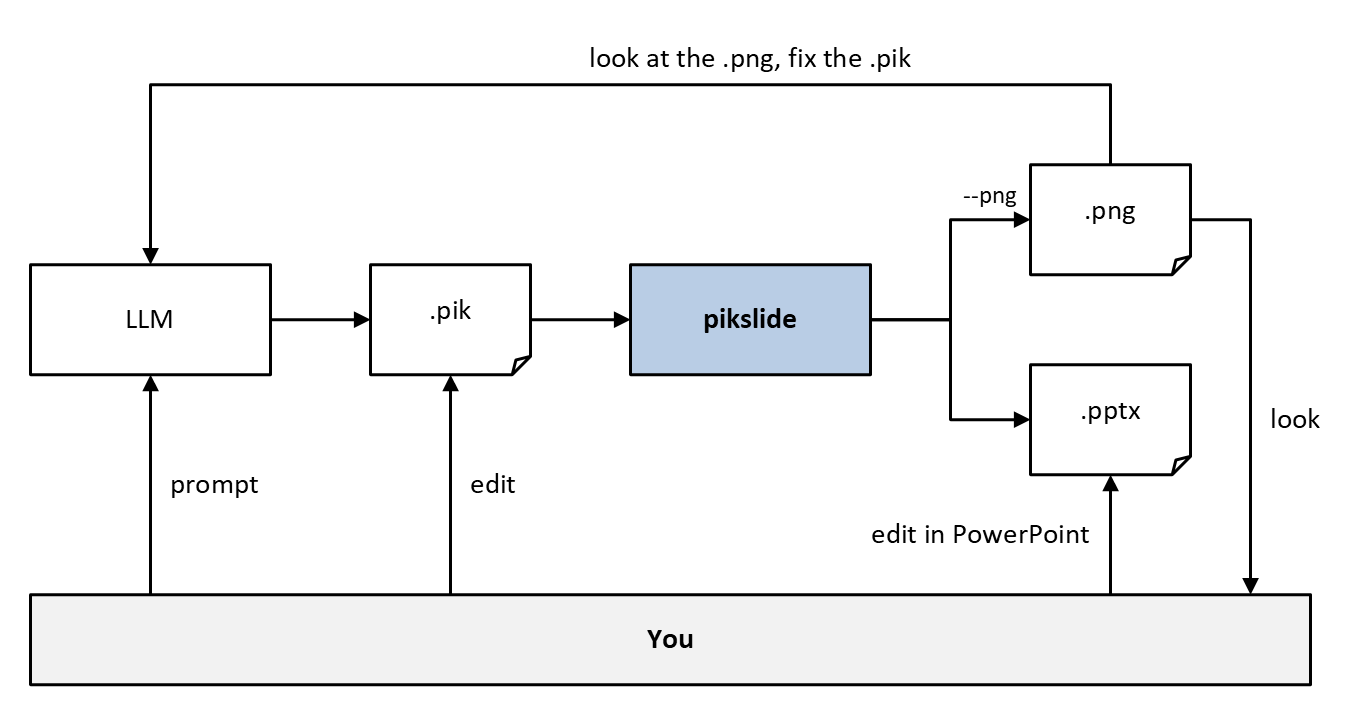
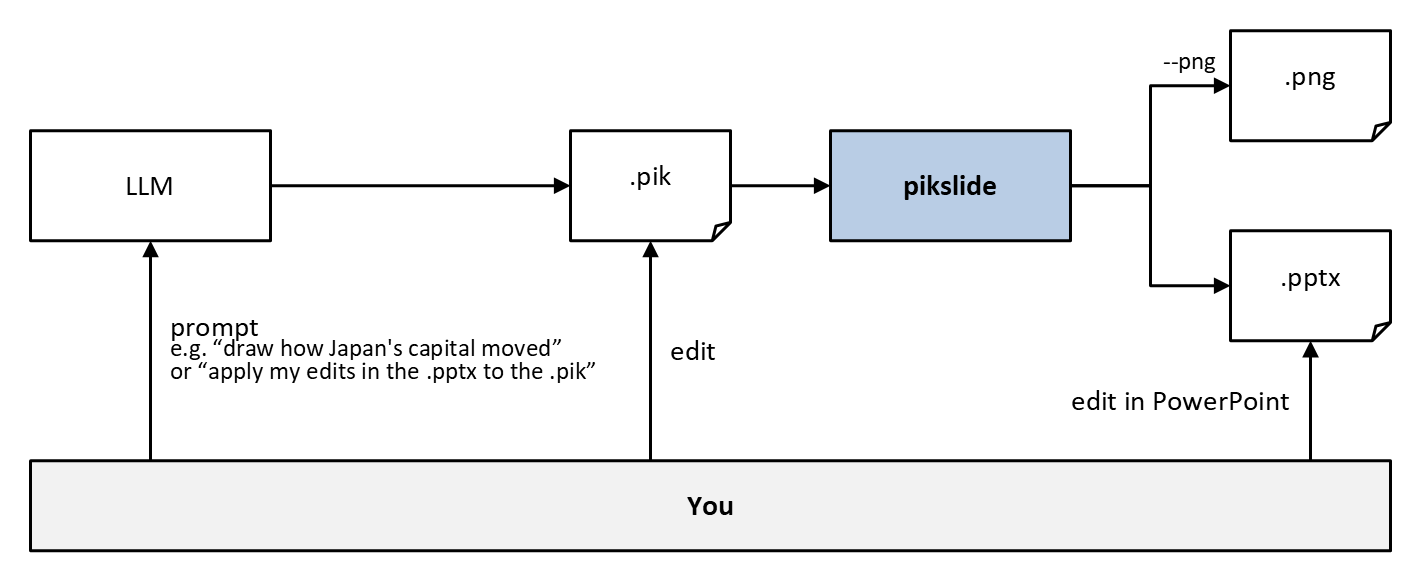
Draw the README's loop through you, not through the LLM's own checks
The picture had the LLM look at the .png and fix its .pik by itself,
and you look at the .png too. That self-check is the harness's, not
pikslide's, and it hid what pikslide adds: a .pptx you can edit.

Now the .png is only an output. The loop runs through you: you prompt
the LLM, edit the .pik, or edit the .pptx in PowerPoint, and the prompt
arrow gives two examples, a first request and "apply my edits in the
.pptx to the .pik". The README's steps say the same, and why the LLM
can carry the edits over: each shape is named after its label in the
.pik.

diff --git a/README.md b/README.md
@@ -10,25 +10,27 @@ theme: a person can select, move and restyle each one afterwards.
 Text an LLM can write, and a slide a person can finish: pikslide is made
 for drawing with an LLM, with you in the loop.
 
-![pipeline.png: You prompt an LLM, which writes a .pik; pikslide renders it to a .pptx and, with --png, a .png. The LLM looks at the .png and fixes the .pik; you look at it too, and can prompt the LLM again, edit the .pik, or edit the .pptx in PowerPoint](https://raw.githubusercontent.com/mkyutani/pikslide/main/docs/examples/pipeline.png)
+![pipeline.png: You prompt an LLM, which writes a .pik; pikslide renders it to a .pptx and, with --png, a .png. You can also edit the .pik, or edit the .pptx in PowerPoint and ask the LLM to apply your edits to the .pik](https://raw.githubusercontent.com/mkyutani/pikslide/main/docs/examples/pipeline.png)
 
 1. You prompt the LLM, and it writes a `.pik`.
 2. pikslide renders the `.pik` to a `.pptx` and, with `--png`, to a
    `.png` as well.
-3. The LLM looks at the `.png` and fixes its `.pik`: a label that
-   overflows, an arrow that misses its target.
-4. You look at it too, and step in where it's quickest: ask the LLM for a
-   change, edit the `.pik` yourself, or edit the `.pptx` in PowerPoint.
+3. You edit the `.pptx` in PowerPoint and hand it back to the LLM with
+   your next prompt. The LLM carries your edits into the `.pik`, so the
+   next render keeps them: each shape in the `.pptx` is named after its
+   label in the `.pik`, so the two match up.
+4. Or skip PowerPoint: tell the LLM what to change, or edit the `.pik`
+   yourself.
 
 The picture above is pikslide's own,
 [docs/examples/pipeline.pik](https://github.com/mkyutani/pikslide/blob/main/docs/examples/pipeline.pik):
 
 ```pikslide
 # Drawing a slide with an LLM and pikslide, with a person in the loop.
-# One pass: the LLM writes a .pik, and pikslide renders it to a .pptx
-# and, with --png, a .png. The LLM looks at the .png and fixes its .pik;
-# you look at it too, and step in where you like: ask the LLM, edit the
-# .pik, or edit the .pptx in PowerPoint.
+# The LLM writes a .pik, and pikslide renders it to a .pptx and, with
+# --png, a .png. You step in where you like: prompt the LLM, edit the
+# .pik, or edit the .pptx in PowerPoint and ask the LLM to apply your
+# edits to the .pik.
 
 boxwid = 1.2in
 boxht = 0.55in
@@ -36,7 +38,7 @@ filewid = 0.8in
 fileht = 0.55in
 
 LLM: box "LLM"
-arrow
+arrow 1.5in
 Pik: file ".pik"
 arrow
 Pikslide: box "pikslide" bold fill accent1 lighter 60%
@@ -46,16 +48,11 @@ arrow from Pikslide.e right 0.4in then up until even with Png then to Png.w
 "--png" small above at 1/2<(Pikslide.e.x + 0.4in, Png.y), Png.w>
 arrow from Pikslide.e right 0.4in then down until even with Pptx then to Pptx.w
 
-You: box "You" bold wid (Png.e.x - LLM.w.x) + 0.6in ht 0.45in fill bg1 darker 5% \
+You: box "You" bold wid (Pptx.e.x - LLM.w.x) ht 0.45in fill bg1 darker 5% \
     with .nw at (LLM.w.x, Pptx.s.y - 0.6in)
-arrow "prompt" ljust from (LLM.x, You.n.y) to LLM.s
+arrow "prompt" "e.g. “draw how Japan's capital moved”" small "or “apply my edits in the .pptx to the .pik”" small ljust from (LLM.x, You.n.y) to LLM.s
 arrow "edit" ljust from (Pik.x, You.n.y) to Pik.s
 arrow "edit in PowerPoint" rjust from (Pptx.x, You.n.y) to Pptx.s
-arrow from Png.e right 0.3in then down until even with You.n
-"look" ljust at (Png.e.x + 0.3in, Pptx.y)
-
-arrow from Png.n up 0.4in then left until even with LLM then to LLM.n
-"look at the .png, fix the .pik" above at (Pikslide.x, Png.n.y + 0.4in)
 ```
 
 [docs/examples/japan-capitals.md](https://github.com/mkyutani/pikslide/blob/main/docs/examples/japan-capitals.md)
